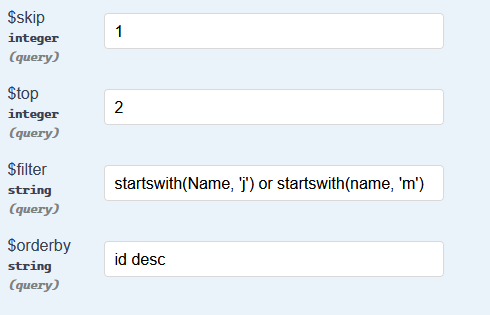
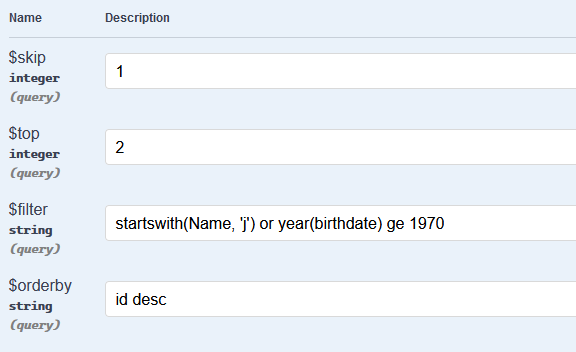
update readme

diff --git a/README.md b/README.md
@@ -16,19 +16,19 @@ public IActionResult Index(Query query)
 
 ![](images/query.png)
 
-Giving `?$filter=startswith(Name, 'j') or startswith(name, 'm')&orderby=id desc&skip=1&take=2` will filter a list of actors into this subset:
+Giving `"?$skip=1&$top=2&$filter=startswith(Name, 'j') or year(birthdate) ge 1970&$orderby=id desc"` will filter a list of actors into this subset:
 
 ```json
 [
   {
+    "id": 7,
+    "name": "Charlize Theron",
+    "birthDate": "1986-01-01T00:00:00"
+  },
+  {
     "id": 6,
     "name": "Jennifer Lawrence",
     "birthDate": "1975-01-01T00:00:00"
-  },
-  {
-    "id": 4,
-    "name": "Meryl Streep",
-    "birthDate": "1973-01-01T00:00:00"
   }
 ]
 ```
@@ -39,6 +39,6 @@ Giving `?$filter=startswith(Name, 'j') or startswith(name, 'm')&orderby=id desc&
 
 This library is created thanks to a [great guide][guide] by [Evgeny Bychkov](https://twitter.com/bychkovea) and [StringToExpression library][lib] 
 
-[odata]: https://www.odata.org/documentation/odata-version-2-0/uri-conventions/#FilterSystemQueryOption
+[odata]: https://www.odata.org/documentation/odata-version-2-0/uri-conventions/#_45_filter_system_query_option_filter_13
 [guide]: http://codewithevgeny.com/web-api-odata/
 [lib]: https://github.com/codecutout/StringToExpression
